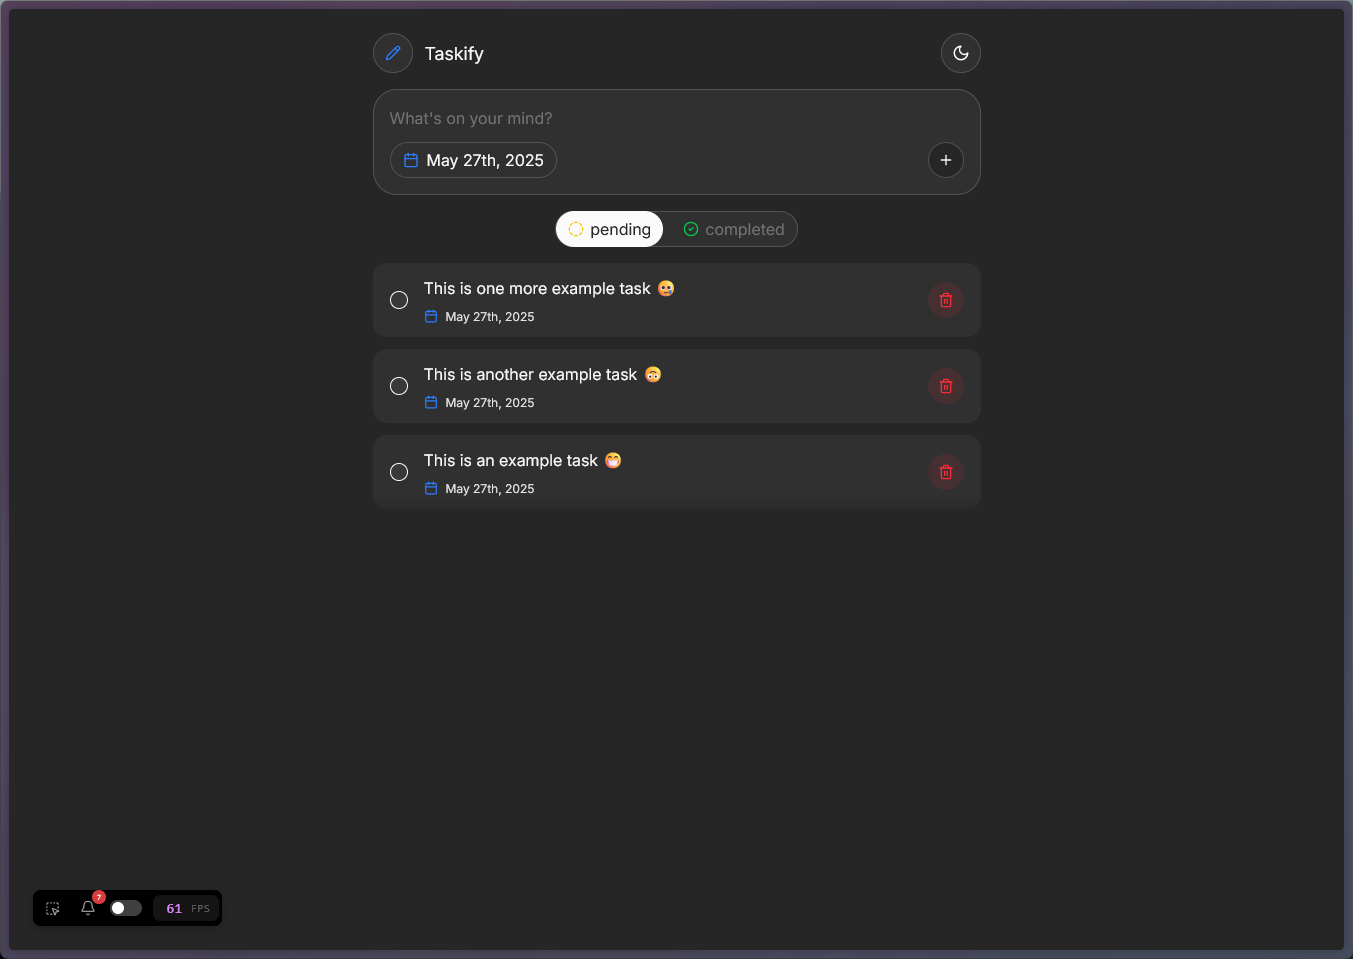
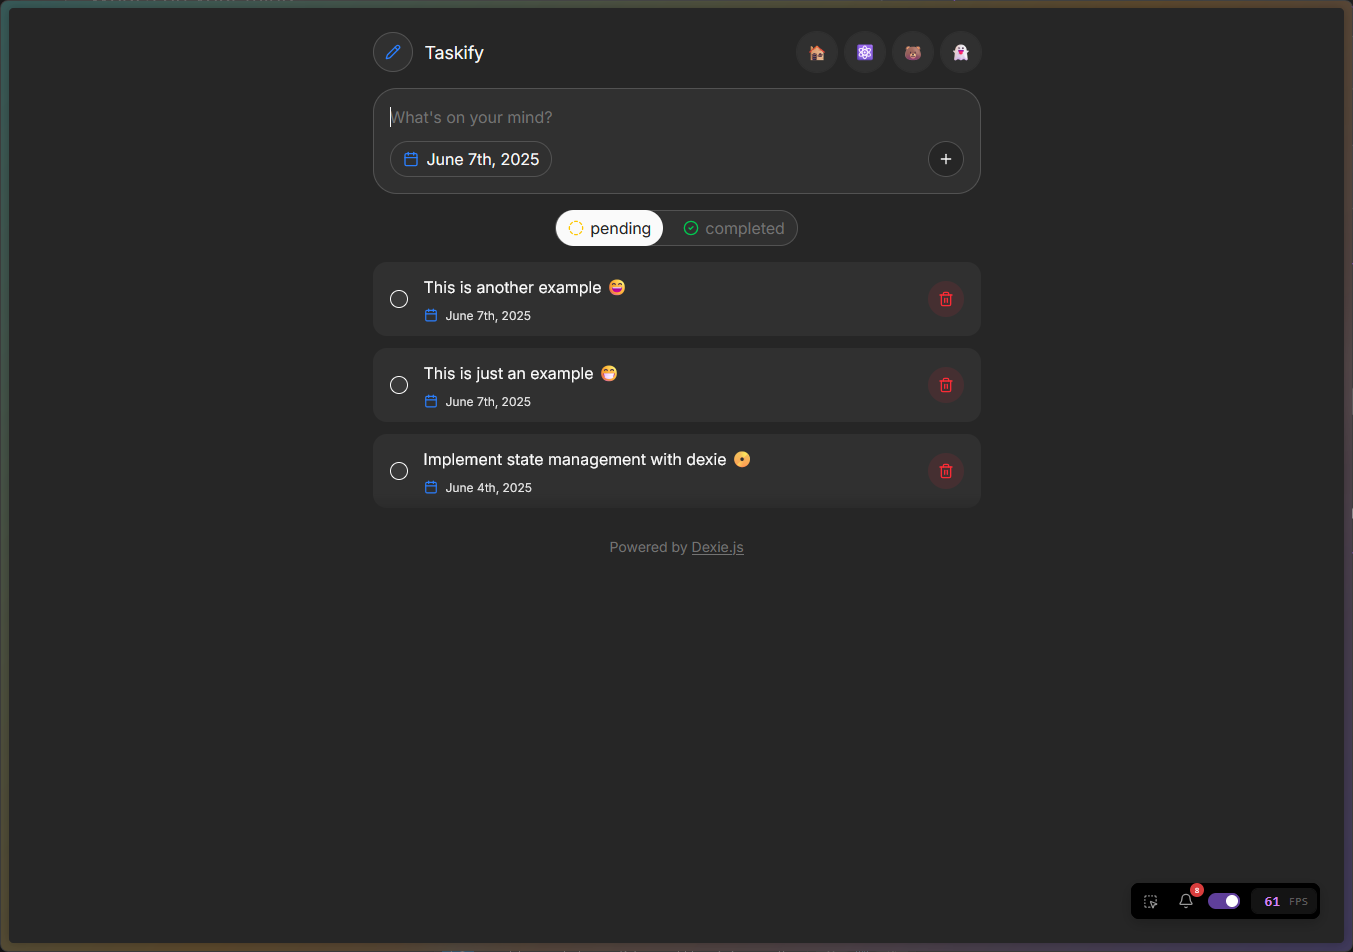
docs: update README to include state management solutions in features

diff --git a/README.md b/README.md
@@ -9,6 +9,11 @@ Your advanced todo app for efficient task management. Built with React, React Ro
 - 🌓 Light and dark mode support
 - 💾 Offline support with local storage (DexieJS)
 - 🖱 Intuitive and responsive UI with Shadcn components
+- 🧩 **Compare State Management:**
+  - The app demonstrates different state management solutions on different routes:
+    - **Redux**
+    - **Zustand**
+    - **Jotai**
 
 ![Taskify App](public/app.png)
 
